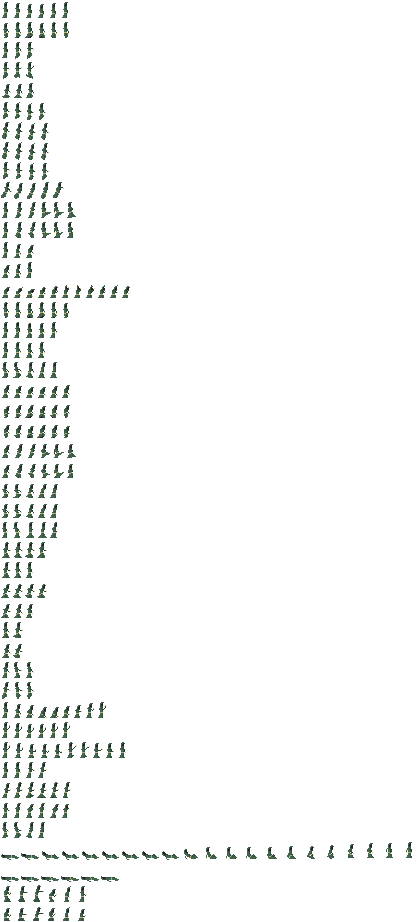
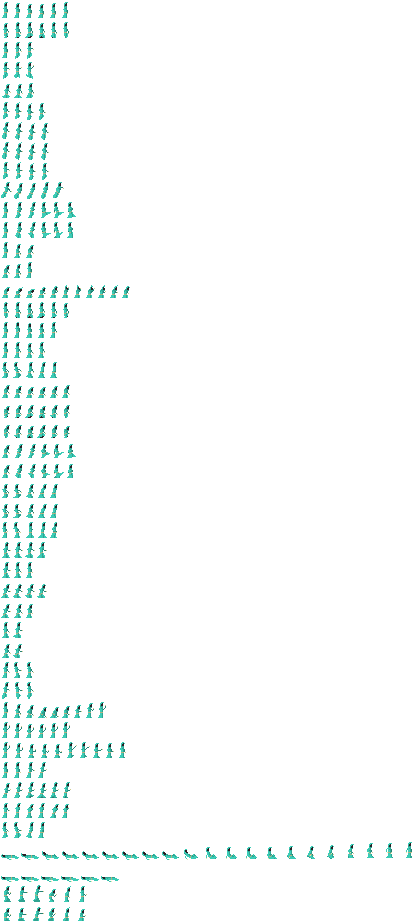
first run of sprite gen, colors should now be in sync

diff --git a/resources/generate-class-sprites.py b/resources/generate-class-sprites.py
@@ -25,7 +25,7 @@ from shutil import copyfile
 # Defaults for easy command-line runs
 default_image_path = "G:\\Steam\\steamapps\\common\\Noita\\mods\\thematic_random_starts\\resources\\player.xcf"
 default_csv_path = "G:\\Steam\\steamapps\\common\\Noita\\mods\\thematic_random_starts\\resources\\"
-default_csv_name = "test_palettes.csv"
+default_csv_name = "changed_palettes.csv"
 default_output_path = "G:\\Steam\\steamapps\\common\\Noita\\mods\\thematic_random_starts\\files\\"
 
 # Debug mode
